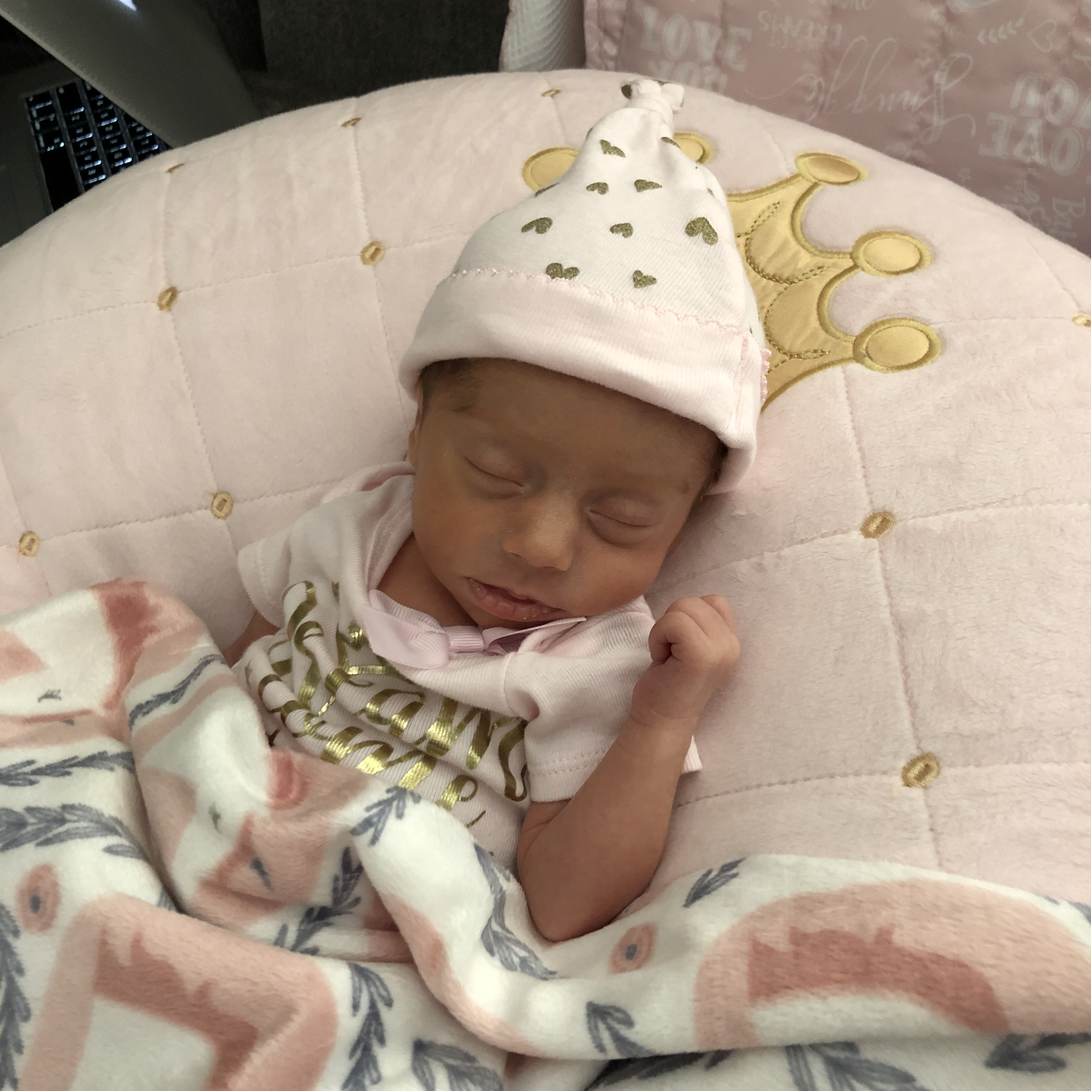
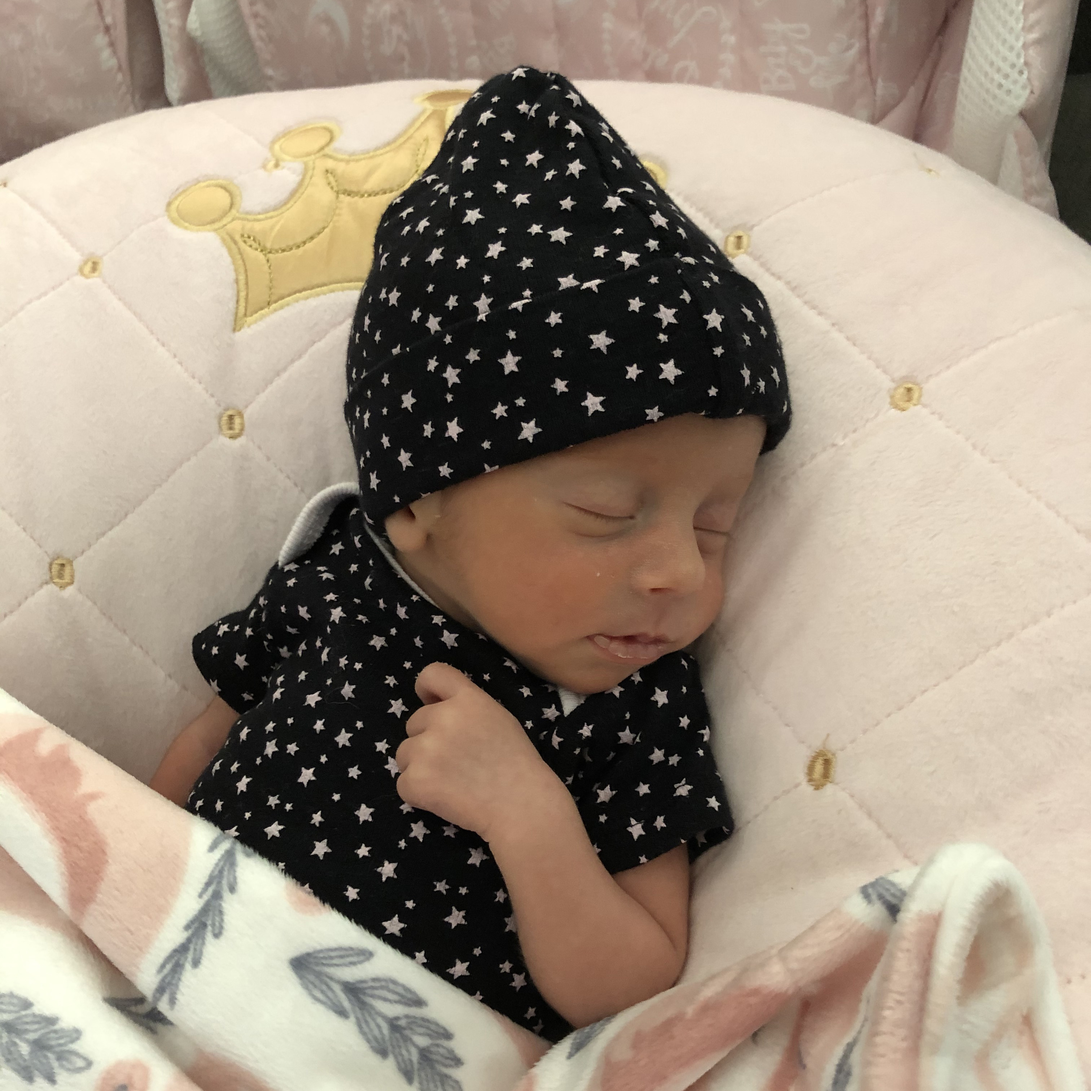
Created helpers file for importing helper functions. Updated CSS on index.html.  Updated images for addison and andi.

diff --git a/templates/index.html b/templates/index.html
@@ -18,6 +18,11 @@
             height: auto;
             margin-bottom: 15px;
         }
+
+        .list-group {
+            margin-bottom: 30px;
+        }
+
     </style>
 </head>
 

diff --git a/gpio.py b/gpio.py
@@ -1,3 +1,4 @@
+import helpers
 import RPi.GPIO as GPIO
 import requests
 from datetime import datetime
@@ -19,7 +20,7 @@ try:
             if (not prev_input23):  # if port 23 == 1 and it was previously 0
                 print("Port 23 is 1/HIGH/True - BUTTON PRESSED")
                 # payload = { "date": datetime.now().strftime('%Y-%m-%dT%H:%M:%SZ'), "list": "kitties" }
-                payload = { "date": datetime.now().strftime("%A, %B %d %Y %H:%M %p"), "list": "kitties" }
+                payload = { "date": helpers.get_time_now(), "list": "kitties" }
                 # r = requests.post("http://192.168.0.104/post", data = payload)
                 r = requests.post("http://127.0.0.1/post", data = payload)
                 print(r.text)
@@ -32,7 +33,7 @@ try:
             if (not prev_input24):  # if port 24 == 1 and it was previously 0
                 print("Port 24 is 1/HIGH/True - BUTTON PRESSED")
                 # payload = { "date": datetime.now().strftime('%Y-%m-%dT%H:%M:%SZ'), "list": "andi" }
-                payload = { "date": datetime.now().strftime("%A, %B %d %Y %H:%M %p"), "list": "andi" }
+                payload = { "date": helpers.get_time_now(), "list": "andi" }
                 # r = requests.post("http://192.168.0.104/post", data = payload)
                 r = requests.post("http://127.0.0.1/post", data = payload)
                 print(r.text)
@@ -44,7 +45,7 @@ try:
         if(GPIO.input(25) == True):
             if (not prev_input25):  # if port 25 == 1 and it was previously 0
                 print("Port 25 is 1/HIGH/True - BUTTON PRESSED")
-                payload = { "date": datetime.now().strftime("%A, %B %d %Y %H:%M %p"), "list": "addison" }
+                payload = { "date": helpers.get_time_now(), "list": "addison" }
                 # r = requests.post("http://192.168.0.104/post", data = payload)
                 r = requests.post("http://127.0.0.1/post", data = payload)
                 print(r.text)

diff --git a/server.py b/server.py
@@ -1,3 +1,4 @@
+import helpers
 import tornado.ioloop
 import tornado.web
 import tornado.websocket
@@ -29,13 +30,13 @@ class MainHandler(tornado.web.RequestHandler):
     def get(self):
         print("[HTTP](MainHandler) User Connected.")
 
-        addison_items = getItems("/home/pi/addison.txt")
-        andi_items = getItems("/home/pi/andi.txt")
-        kitties_items = getItems("/home/pi/kitties.txt")
+        # addison_items = getItems("/home/pi/addison.txt")
+        # andi_items = getItems("/home/pi/andi.txt")
+        # kitties_items = getItems("/home/pi/kitties.txt")
 
-        # addison_items = getItems("addison.txt")
-        # andi_items = getItems("andi.txt")
-        # kitties_items = getItems("kitties.txt")
+        addison_items = getItems("addison.txt")
+        andi_items = getItems("andi.txt")
+        kitties_items = getItems("kitties.txt")
 
         self.render("index.html", addison_items = addison_items, andi_items = andi_items, kitties_items = kitties_items)
 
@@ -64,8 +65,8 @@ class WSHandler(tornado.websocket.WebSocketHandler):
     def on_message(self, message):
         print('[WS] Incoming message:', message)
 
-        date = datetime.now().strftime("%A, %B %d %Y %H:%M %p")
-
+        date = helpers.get_time_now()
+        
         f = open("/home/pi/" + message + ".txt", "a")
         f.write(date + "\n")
         f.close()

diff --git a/helpers.py b/helpers.py
@@ -1,0 +1,2 @@
+def get_time_now():
+    return datetime.now().strftime("%A, %B %d %Y %I:%M %p")
